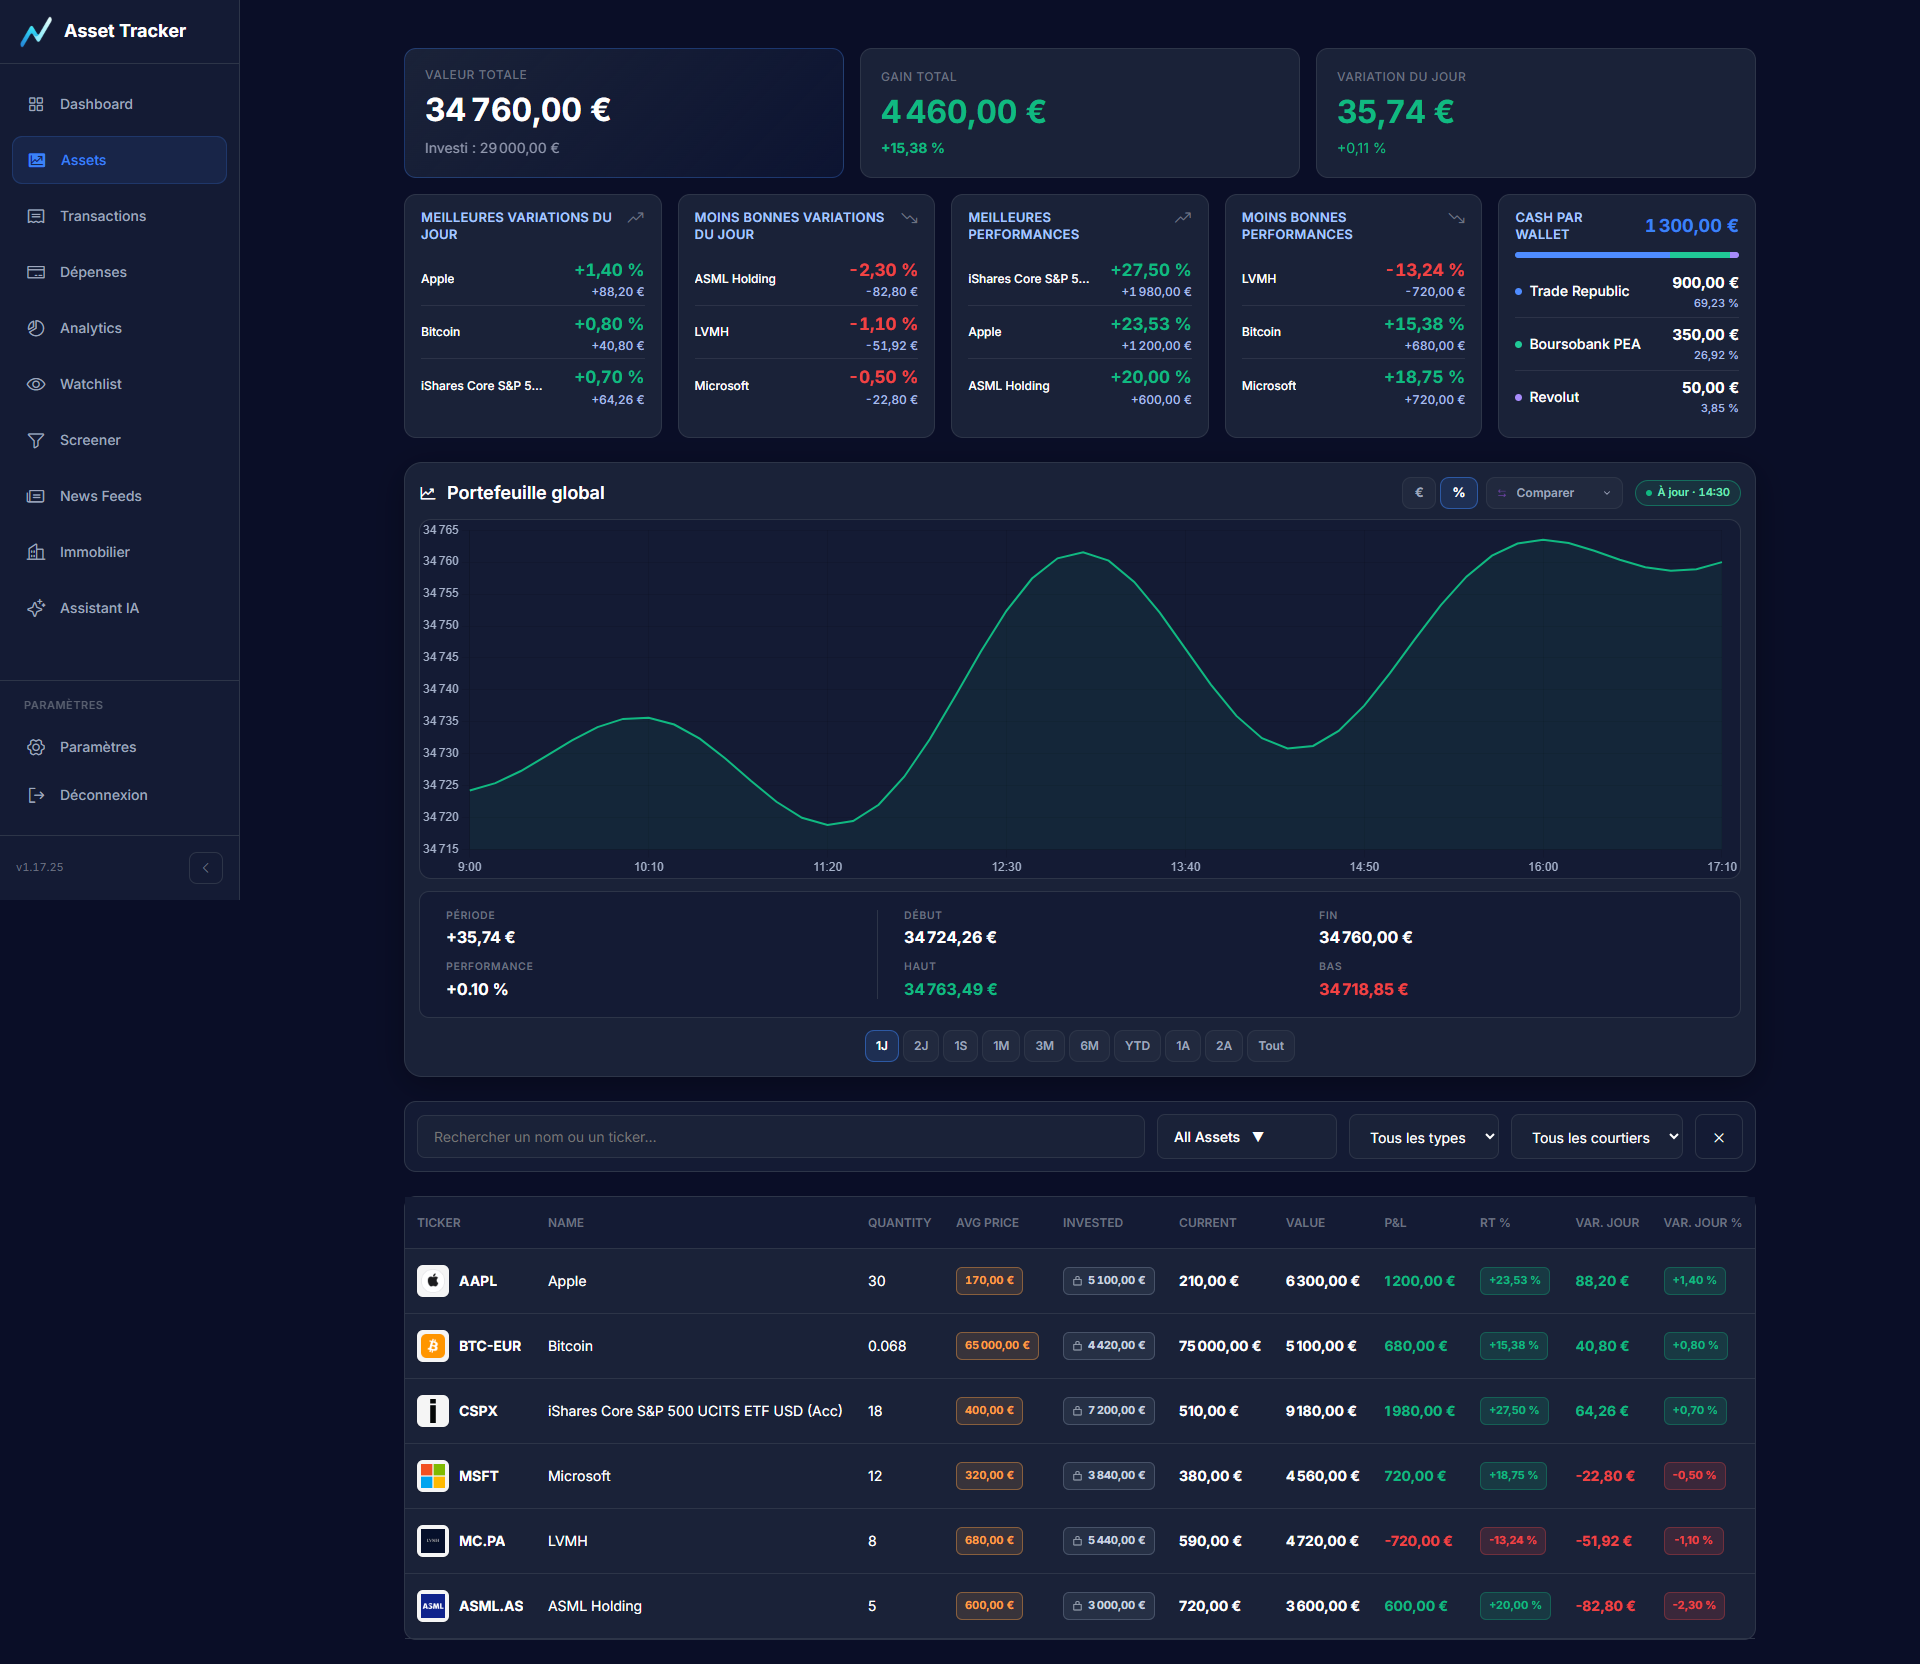
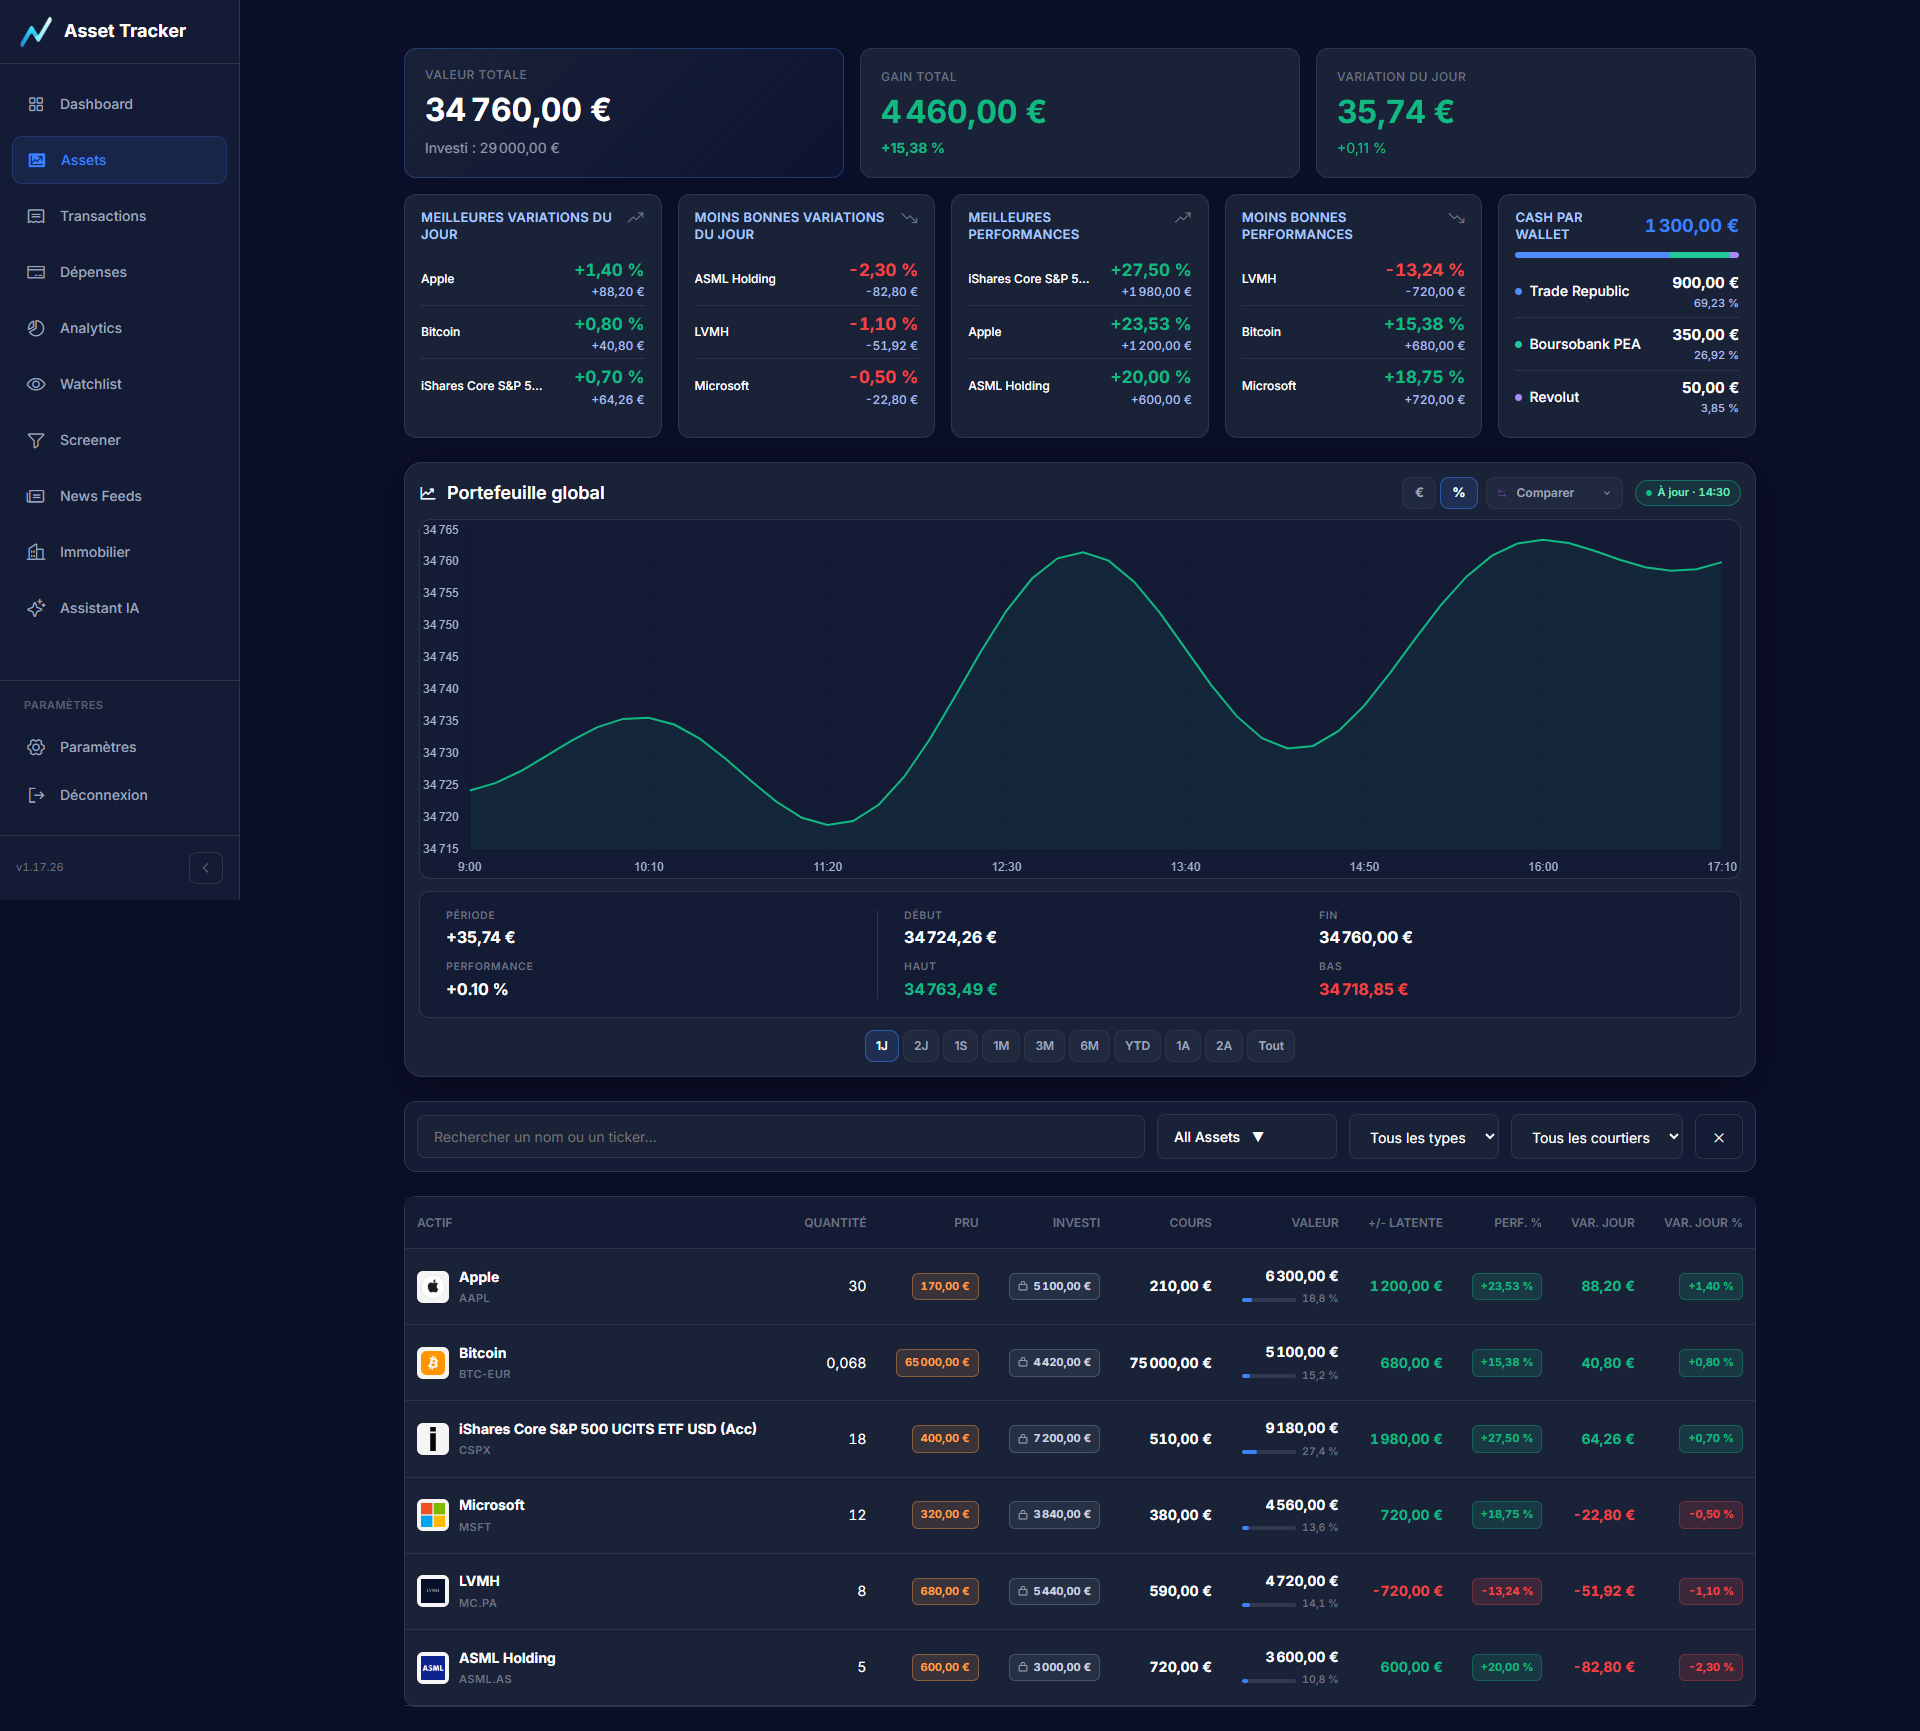
fix claude tab 1

diff --git a/src/investmentsPage.js b/src/investmentsPage.js
@@ -17,6 +17,10 @@ const formatMovementAmount = (price, quantity, currency) =>
   price != null && quantity != null && Number.isFinite(Number(price)) && Number.isFinite(Number(quantity))
     ? new Intl.NumberFormat('fr-FR', { style: 'currency', currency: currency === 'USD' ? 'USD' : 'EUR' }).format(Math.abs(Number(price) * Number(quantity)))
     : '—';
+// A change that rounds to 0,00 is shown as zero, in grey (never "-0,00 €" in red).
+const settleZero = value => Number.isFinite(value) && Math.abs(value) < 0.005 ? 0 : value;
+const toneClass = (value, positive, negative, neutral = '') => value > 0 ? positive : value < 0 ? negative : neutral;
+const weightFormatter = new Intl.NumberFormat('fr-FR', { minimumFractionDigits: 1, maximumFractionDigits: 1 });
 const formatInvestmentPercent = value => Number.isFinite(value)
   ? `<strong>${value > 0 ? '+' : ''}${value.toLocaleString('fr-FR', { minimumFractionDigits: 2, maximumFractionDigits: 2 })} %</strong>`
   : '—';
@@ -341,6 +345,10 @@ export class InvestmentsPage {
     if (this.currentPage > totalPages) this.currentPage = totalPages;
     const pageItems = filteredHoldings.slice((this.currentPage - 1) * PAGE_SIZE, this.currentPage * PAGE_SIZE);
 
+    // Weight of each position among all positions (cash excluded), whatever the filter.
+    const positionsValue = (this.currentHoldings || []).reduce((sum, position) =>
+      sum + (Number.isFinite(position.currentValue) && position.currentValue > 0 ? position.currentValue : 0), 0);
+
     tbody.innerHTML = pageItems.map(p => {
       const isSelected = selectedTickers.has(p.ticker.toUpperCase());
       const selectedClass = isSelected ? 'selected' : '';
@@ -372,8 +380,11 @@ export class InvestmentsPage {
       const isExpanded = this.expandedTicker === p.ticker;
       const rowExpandedClass = isExpanded ? 'expanded' : '';
       const purchasesOpenClass = isExpanded ? 'open' : '';
-      const displayedDayChange = p.displayDayChange ?? p.displayDayPnl ?? p.dayChange;
-      const displayedDayPct = p.displayDayPct ?? p.displayDayPnlPct ?? p.dayPct;
+      const displayedDayChange = settleZero(p.displayDayChange ?? p.displayDayPnl ?? p.dayChange);
+      const displayedDayPct = settleZero(p.displayDayPct ?? p.displayDayPnlPct ?? p.dayPct);
+      const gainEUR = settleZero(p.gainEUR);
+      const gainPct = settleZero(p.gainPct);
+      const weight = positionsValue > 0 && Number.isFinite(p.currentValue) ? Math.max(0, p.currentValue / positionsValue * 100) : null;
 
       const purchasesTable = `
         <tr class="purchases-row ${purchasesOpenClass}" data-ticker="${escapeHtml(p.ticker)}">
@@ -412,19 +423,19 @@ export class InvestmentsPage {
                 <td>
                     <div class="investment-asset-identity">
                         ${logoInfo.html}
-                        <span class="investment-asset-text"><strong>${escapeHtml(p.ticker)}</strong><small>${escapeHtml(p.name)}</small><small>${escapeHtml(formatQuantity(p.quantity))} titres</small></span>
+                        <span class="investment-asset-text"><strong>${escapeHtml(p.name || p.ticker)}</strong><small class="asset-ticker">${escapeHtml(p.ticker)}</small><small>${escapeHtml(formatQuantity(p.quantity))} titres</small></span>
                     </div>
                 </td>
-                <td>${escapeHtml(p.name)}</td>
-                <td>${formatQuantity(p.quantity)}</td>
-                <td><span class="badge badge-pru" title="Prix de revient unitaire (PRU)">${formatCurrency(p.avgPrice, 'EUR')}</span></td>
-                <td><span class="badge badge-invested" title="Montant engagé dans la position (coût de revient)"><i class="ph ph-lock-simple" aria-hidden="true"></i>${formatCurrency(p.invested, 'EUR')}</span></td>
-                <td>${formatCurrency(p.currentPrice, 'EUR')}</td>
-                <td>${formatCurrency(p.currentValue, 'EUR')}</td>
-                <td class="${p.gainEUR > 0 ? 'positive' : p.gainEUR < 0 ? 'negative' : ''}">${formatCurrency(p.gainEUR, 'EUR')}</td>
-                <td><span class="badge ${p.gainPct > 0 ? 'badge-positive' : p.gainPct < 0 ? 'badge-negative' : 'badge-neutral'}">${formatInvestmentPercent(p.gainPct)}</span></td>
-                <td class="${displayedDayChange > 0 ? 'positive' : displayedDayChange < 0 ? 'negative' : ''}">${formatCurrency(displayedDayChange, 'EUR')}</td>
-                <td><span class="badge ${displayedDayPct > 0 ? 'badge-positive' : displayedDayPct < 0 ? 'badge-negative' : 'badge-neutral'}">${formatInvestmentPercent(displayedDayPct)}</span></td>
+                <td>${escapeHtml(p.ticker)}</td>
+                <td class="num">${formatQuantity(p.quantity)}</td>
+                <td class="num"><span class="badge badge-pru" title="Prix de revient unitaire (PRU)">${formatCurrency(p.avgPrice, 'EUR')}</span></td>
+                <td class="num"><span class="badge badge-invested" title="Montant engagé dans la position (coût de revient)"><i class="ph ph-lock-simple" aria-hidden="true"></i>${formatCurrency(p.invested, 'EUR')}</span></td>
+                <td class="num">${formatCurrency(p.currentPrice, 'EUR')}</td>
+                <td class="num value-cell"><span class="value-amount">${formatCurrency(p.currentValue, 'EUR')}</span>${weight === null ? '' : `<span class="position-weight" title="Poids dans l'ensemble des positions"><span class="weight-track" aria-hidden="true"><span style="width:${Math.min(100, weight).toFixed(1)}%"></span></span><span class="weight-pct">${weightFormatter.format(weight)} %</span></span>`}</td>
+                <td class="num ${toneClass(gainEUR, 'positive', 'negative', 'neutral-value')}">${formatCurrency(gainEUR, 'EUR')}</td>
+                <td class="num"><span class="badge ${toneClass(gainPct, 'badge-positive', 'badge-negative', 'badge-neutral')}">${formatInvestmentPercent(gainPct)}</span></td>
+                <td class="num ${toneClass(displayedDayChange, 'positive', 'negative', 'neutral-value')}">${formatCurrency(displayedDayChange, 'EUR')}</td>
+                <td class="num"><span class="badge ${toneClass(displayedDayPct, 'badge-positive', 'badge-negative', 'badge-neutral')}">${formatInvestmentPercent(displayedDayPct)}</span></td>
             </tr>
             ${purchasesTable}
         `;

diff --git a/css/investments.css b/css/investments.css
@@ -705,6 +705,70 @@
 
 .investment-asset-text small { display: none; }
 
+/* Desktop table: name + ticker in the first column (the separate ticker
+   column stays in the DOM for the mobile layout), numbers right-aligned in
+   fixed-width digits, position weight under the value. */
+@media (min-width: 769px) {
+    #investments-table thead th:nth-child(2),
+    #investments-table tbody tr.asset-row > td:nth-child(2) { display: none; }
+
+    #investments-table .investment-asset-text strong {
+        display: block;
+        overflow: hidden;
+        text-overflow: ellipsis;
+        white-space: nowrap;
+    }
+
+    #investments-table .investment-asset-text small.asset-ticker {
+        display: block;
+        margin-top: 2px;
+        color: var(--text-muted);
+        font-size: 11px;
+        font-weight: 600;
+        letter-spacing: 0.04em;
+    }
+
+    #investments-table thead th:nth-child(n+3),
+    #investments-table tbody tr.asset-row > td.num {
+        text-align: right;
+    }
+
+    #investments-table tbody tr.asset-row > td.num {
+        font-variant-numeric: tabular-nums;
+        white-space: nowrap;
+    }
+
+    #investments-table .position-weight {
+        display: flex;
+        align-items: center;
+        justify-content: flex-end;
+        gap: 6px;
+        margin-top: 4px;
+        color: var(--text-muted);
+        font-size: 10.5px;
+        font-weight: 600;
+    }
+
+    #investments-table .weight-track {
+        width: 54px;
+        height: 4px;
+        overflow: hidden;
+        border-radius: 999px;
+        background: rgba(148, 163, 184, 0.18);
+    }
+
+    #investments-table .weight-track > span {
+        display: block;
+        height: 100%;
+        border-radius: inherit;
+        background: var(--accent-blue);
+    }
+}
+
+#investments-table td.neutral-value { color: var(--text-muted); }
+#investments-table .position-weight { display: none; }
+@media (min-width: 769px) { #investments-table .position-weight { display: flex; } }
+
 .investment-filter-context {
     color: var(--text-secondary);
     font-size: 12px;

diff --git a/src/utils.js b/src/utils.js
@@ -101,17 +101,14 @@ export function formatDate(dateString) {
 // Formatage quantité intelligent (supprime les zéros inutiles)
 export function formatQuantity(qty) {
   if (qty === null || qty === undefined || isNaN(qty)) return '-';
-  
   const num = parseFloat(qty);
-  
-  // Si c'est un nombre entier ou très proche d'un entier
-  if (Math.abs(num - Math.round(num)) < 0.000001) {
-    return Math.round(num).toString();
-  }
-  
-  // Sinon, formatter avec le nombre de décimales nécessaires
-  // Supprimer les zéros à la fin
-  return num.toFixed(6).replace(/\.?0+$/, '');
+  // Format français (virgule, espace des milliers), sans zéros inutiles :
+  // 4 décimales au plus dès 1 titre, 8 en dessous (fractions de crypto).
+  const whole = Math.abs(num - Math.round(num)) < 0.000001;
+  return (whole ? Math.round(num) : num).toLocaleString('fr-FR', {
+    minimumFractionDigits: 0,
+    maximumFractionDigits: whole ? 0 : (Math.abs(num) >= 1 ? 4 : 8)
+  });
 }
 export function parseDate(dateString) {
   if (!dateString) return null;

diff --git a/RELEASES.md b/RELEASES.md
@@ -51,6 +51,7 @@ sont pas assimilés à de nouvelles fonctionnalités.
 | `1.17.24` | 2026-10-12 | fix claude visuel chart 1 | — |
 | `1.17.25` | 2026-10-12 | fix claude nom kpi main | — |
 | `1.17.26` | 2026-10-12 | fix claude tab | — |
+| `1.17.27` | 2026-10-12 | fix claude tab 1 | — |
 
 Les messages de commit pilotent les nouvelles versions. Les scripts de
 déploiement ajoutent désormais aussi chaque correctif à ce tableau avant les
